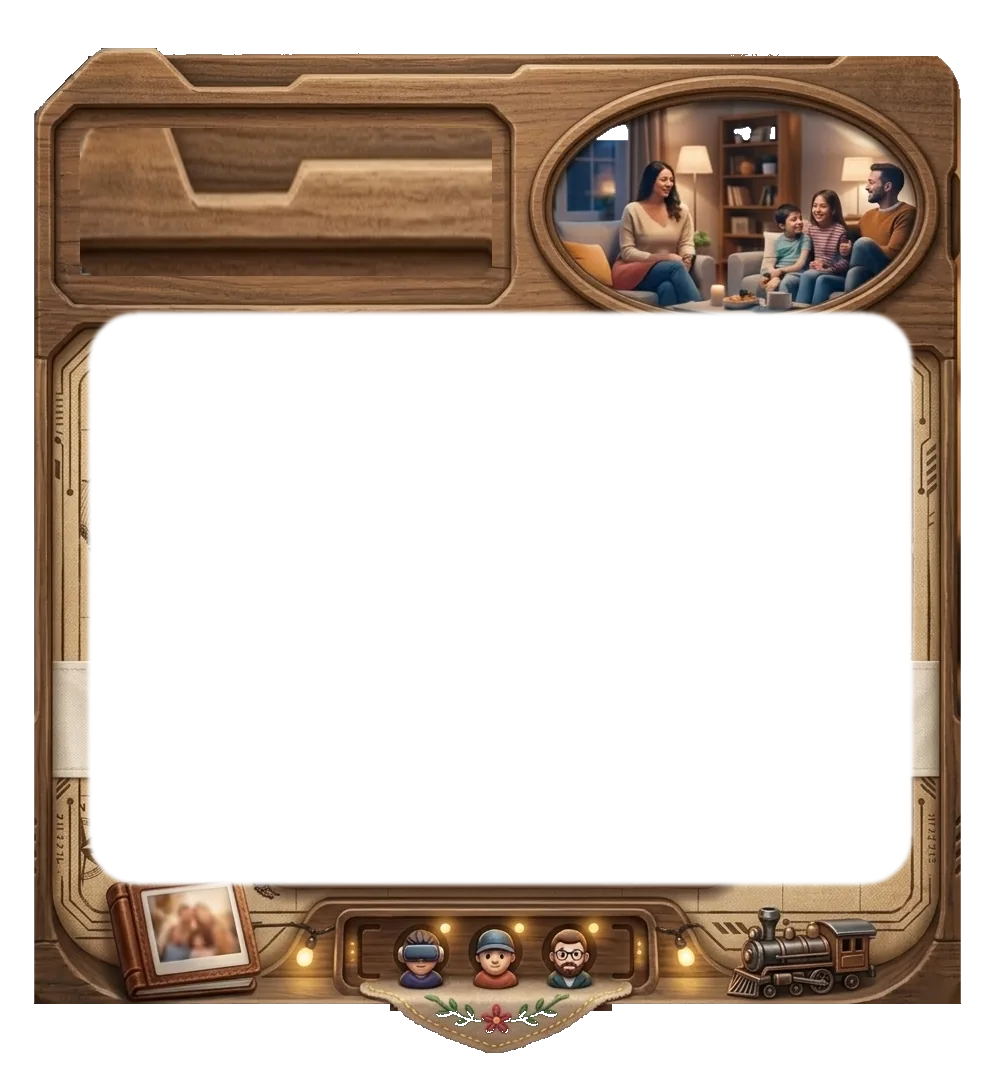
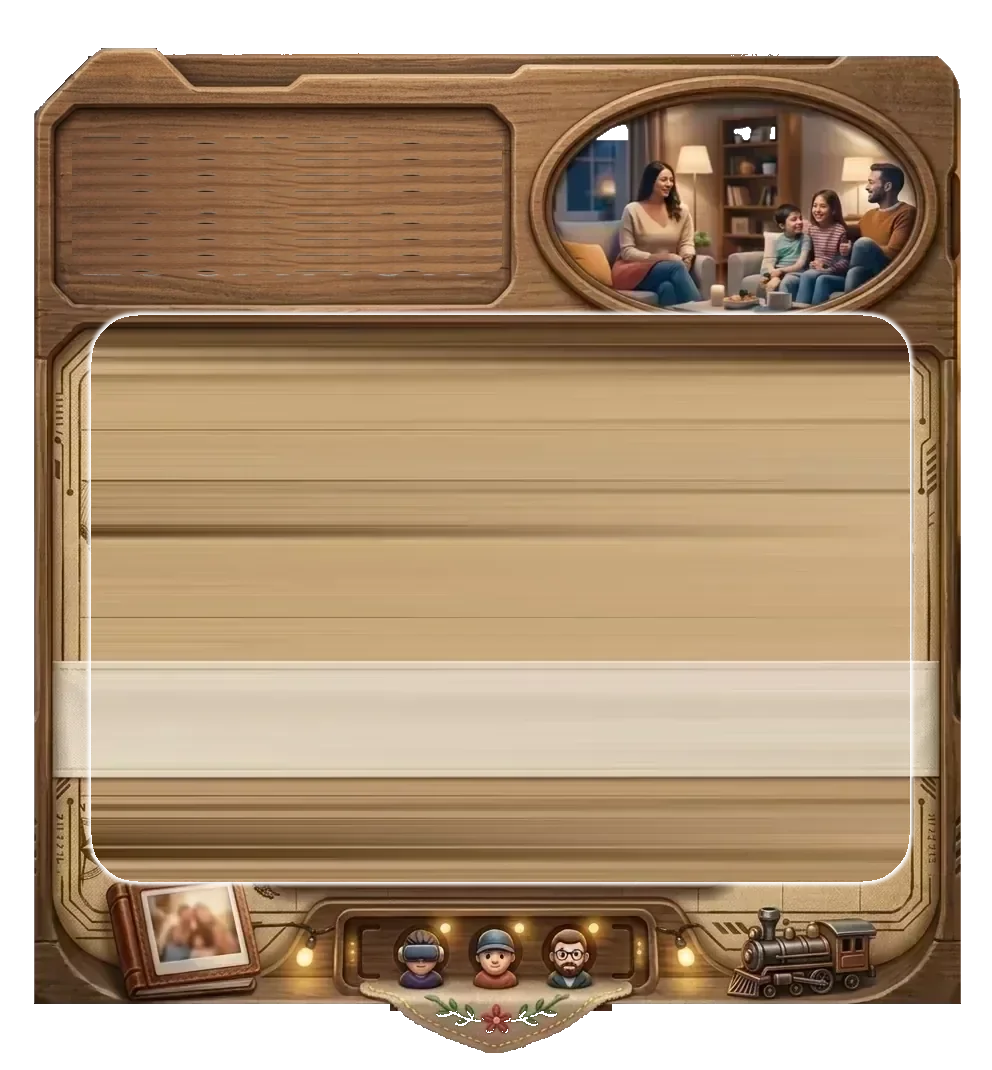
feat(kids-ui,location): 키즈 위치 위젯 제목·버튼을 맞추고 나무 패널을 다듬는다
앤틱 골드 타이틀과 작은 한 줄 버튼으로 영문 잘림을 줄이고, 제목 홈에서 베이크된 영문을 뺀 프레임을 쓴다.

diff --git a/app/globals.css b/app/globals.css
@@ -3705,7 +3705,7 @@ html[data-ui-theme='default'] .content-section.album-widget-section {
   :root[data-ui-theme='kids_friendly'] .widget-chrome[data-widget-key='location'] .content-section.location-widget-section,
   .dark[data-ui-theme='kids_friendly'] .widget-chrome[data-widget-key='location'] .content-section.location-widget-section,
   html[data-ui-theme='kids_friendly'] .widget-chrome[data-widget-key='location'] .content-section.location-widget-section {
-    --location-kids-bg: url('/family-location/widget-bg.webp?v=9');
+    --location-kids-bg: url('/family-location/widget-bg.webp?v=19');
     position: relative;
     isolation: isolate;
     padding: 0 !important;
@@ -3744,20 +3744,33 @@ html[data-ui-theme='default'] .content-section.album-widget-section {
   html[data-ui-theme='kids_friendly'] .widget-chrome[data-widget-key='location'] .section-title {
     position: absolute;
     z-index: 3;
-    top: 13%;
-    left: 10%;
-    width: 40%;
+    top: 11.4%;
+    left: 9.2%;
+    display: flex;
+    width: 42%;
+    height: 16.2%;
+    max-height: none;
     margin: 0;
     overflow: hidden;
-    text-overflow: ellipsis;
-    white-space: nowrap;
     flex: none;
-    font-size: 5.6cqmin;
-    font-weight: 800;
-    letter-spacing: 0.08em;
-    line-height: 1.15;
-    color: #1e3a5f;
-    text-shadow: 0 1px 0 rgba(255, 248, 235, 0.4);
+    align-items: center;
+    justify-content: center;
+    font-family: 'Black Ops One', Montserrat, Pretendard, 'Noto Sans JP', 'Noto Sans SC', 'Noto Sans TC', sans-serif;
+    font-size: 6.8cqmin;
+    font-weight: 900;
+    font-style: normal;
+    letter-spacing: -0.02em;
+    line-height: 0.92;
+    text-align: left;
+    text-transform: uppercase;
+    white-space: normal;
+    word-break: keep-all;
+    overflow-wrap: break-word;
+    hyphens: none;
+    color: #c4a05c;
+    text-shadow:
+      0 1px 0 rgb(42 22 10 / 0.45),
+      0 0 2px rgb(42 22 10 / 0.28);
   }
 
   :root[data-ui-theme='kids_friendly'] .widget-chrome[data-widget-key='location'] .location-header-actions,
@@ -3765,12 +3778,13 @@ html[data-ui-theme='default'] .content-section.album-widget-section {
   html[data-ui-theme='kids_friendly'] .widget-chrome[data-widget-key='location'] .location-header-actions {
     position: absolute;
     z-index: 4;
-    right: 11%;
-    bottom: 19%;
-    left: 11%;
+    right: 12%;
+    bottom: 21.2%;
+    left: 12%;
     justify-content: center;
+    align-items: center;
     flex-wrap: nowrap;
-    gap: 2cqmin;
+    gap: 1.4cqmin;
     width: auto;
     pointer-events: auto;
   }
@@ -3778,8 +3792,24 @@ html[data-ui-theme='default'] .content-section.album-widget-section {
   :root[data-ui-theme='kids_friendly'] .widget-chrome[data-widget-key='location'] .location-action-btn,
   .dark[data-ui-theme='kids_friendly'] .widget-chrome[data-widget-key='location'] .location-action-btn,
   html[data-ui-theme='kids_friendly'] .widget-chrome[data-widget-key='location'] .location-action-btn {
-    box-shadow: 0 2px 8px rgb(15 23 42 / 0.28);
-    font-weight: 800;
+    flex: 0 1 auto;
+    min-width: 0;
+    max-width: calc(50% - 0.7cqmin);
+    box-shadow: 0 2px 6px rgb(15 23 42 / 0.24);
+    gap: 0.6cqmin;
+    padding: 0.85cqmin 1.7cqmin;
+    font-size: 2.7cqmin;
+    font-weight: 700;
+    line-height: 1.15;
+    white-space: nowrap;
+  }
+
+  :root[data-ui-theme='kids_friendly'] .widget-chrome[data-widget-key='location'] .location-action-btn > span:last-child,
+  .dark[data-ui-theme='kids_friendly'] .widget-chrome[data-widget-key='location'] .location-action-btn > span:last-child,
+  html[data-ui-theme='kids_friendly'] .widget-chrome[data-widget-key='location'] .location-action-btn > span:last-child {
+    min-width: 0;
+    overflow: hidden;
+    text-overflow: ellipsis;
   }
 
   :root[data-ui-theme='kids_friendly'] .widget-chrome[data-widget-key='location'] .location-section-body,
@@ -3788,9 +3818,9 @@ html[data-ui-theme='default'] .content-section.album-widget-section {
     /* widget-bg.webp 투명 구멍(992×1070: 91–909 × 315–881). width:100%면 left+right가 무시됨 */
     position: absolute;
     z-index: 2;
-    top: 29.5%;
+    top: 31.2%;
     right: 8.3%;
-    bottom: 17.6%;
+    bottom: 20.2%;
     left: 9.2%;
     display: flex;
     width: auto;

diff --git a/app/layout.tsx b/app/layout.tsx
@@ -49,7 +49,7 @@ export default function RootLayout({
         />
         {/* Google Fonts - 타이틀 디자인 에디터용 (기존) */}
         <link
-          href="https://fonts.googleapis.com/css2?family=Inter:wght@300;400;500;600;700;800;900&family=Roboto:wght@300;400;500;700;900&family=Poppins:wght@300;400;500;600;700;800;900&family=Montserrat:wght@300;400;500;600;700;800;900&family=Playfair+Display:wght@400;700;900&family=Merriweather:wght@300;400;700;900&family=Lora:wght@400;700&family=Dancing+Script:wght@400;700&family=Pacifico&display=swap"
+          href="https://fonts.googleapis.com/css2?family=Inter:wght@300;400;500;600;700;800;900&family=Roboto:wght@300;400;500;700;900&family=Poppins:wght@300;400;500;600;700;800;900&family=Montserrat:wght@300;400;500;600;700;800;900&family=Black+Ops+One&family=Playfair+Display:wght@400;700;900&family=Merriweather:wght@300;400;700;900&family=Lora:wght@400;700&family=Dancing+Script:wght@400;700&family=Pacifico&display=swap"
           rel="stylesheet"
         />
         {/* 모바일 앱 느낌을 주기 위한 설정 */}
